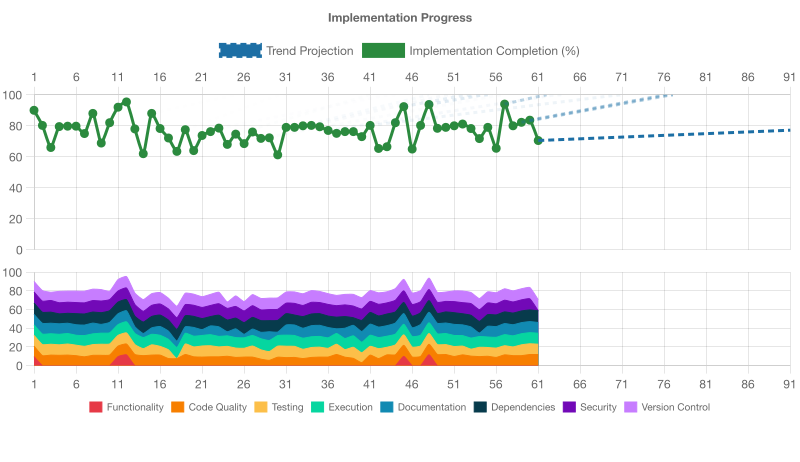
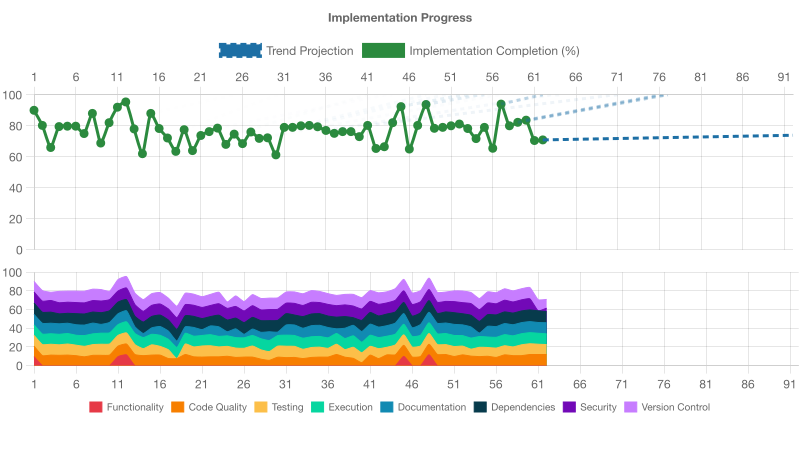
test: add traceability annotations to auto-update prompt abort test

diff --git a/test/printOutdated.updateBackupError.test.js b/test/printOutdated.updateBackupError.test.js
@@ -1,7 +1,7 @@
 /**
- */
-
-/**
+ * Tests for auto-update backup error handling
+ * @story prompts/011.0-DEV-AUTO-UPDATE.md
+ * @req REQ-ERROR-HANDLING - Handle backup creation failure gracefully
  */
 
 import { describe, it, expect, beforeEach, afterEach, vi } from 'vitest';

diff --git a/test/printOutdated.updatePromptAbort.test.js b/test/printOutdated.updatePromptAbort.test.js
@@ -1,7 +1,7 @@
 /**
- */
-
-/**
+ * Tests for auto-update prompt abort
+ * @story prompts/011.0-DEV-AUTO-UPDATE.md
+ * @req REQ-CONFIRMATION - Abort when user denies confirmation
  */
 
 import { describe, it, expect, beforeEach, afterEach, vi } from 'vitest';

diff --git a/.voder/implementation-progress.md b/.voder/implementation-progress.md
@@ -1,140 +1,140 @@
 # Implementation Progress Assessment
 
-**Generated:** 2025-11-18T11:06:41.128Z
+**Generated:** 2025-11-19T01:24:21.700Z
 
 ![Progress Chart](./progress-chart.png)
 
 Projection: flat (no recent upward trend)
 
-## IMPLEMENTATION STATUS: INCOMPLETE (70.5% ± 5% COMPLETE)
+## IMPLEMENTATION STATUS: INCOMPLETE (70.9% ± 7% COMPLETE)
 
 ## OVERALL ASSESSMENT
-Overall implementation is INCOMPLETE: testing (88%) and security (0%) are below required thresholds despite strong performance in code quality, execution, documentation, dependencies, and version control. Address these areas first before further functionality assessment.
+Three foundational support areas—Testing, Security, and Version Control—fall below their required thresholds, preventing a valid functionality assessment. These deficiencies must be addressed before any further feature implementation evaluation.
 
 ## NEXT PRIORITY
-Remediate high-severity security vulnerabilities in development dependencies and update test files to include missing @story traceability annotations.
+Fix missing @story annotations in tests, remediate unresolved high-severity vulnerabilities, and correct version control misconfigurations before proceeding.
 
 
 
 ## CODE_QUALITY ASSESSMENT (95% ± 18% COMPLETE)
-- The project has a robust quality toolchain configured—ESLint, Prettier, TypeScript, jscpd—with all checks passing, no suppressed rules, zero duplication, and complexity limits stricter than the ESLint default. Files and functions are within configured size/complexity bounds, and there are no build‐tooling anti‐patterns.
-- ESLint (incl. security plugin) runs with zero errors and enforces complexity ≤15, max‐lines ≤350/file, max‐lines‐per‐function ≤80, max‐params ≤5, max‐depth ≤4
-- Prettier formatting is enforced (format:check passes) and auto‐applied in pre‐commit
-- TypeScript type‐checking (tsc --noEmit) passes against src without suppressions
-- jscpd duplication check (threshold 20) reports 0 duplicates across 29 files
-- No file‐ or line‐level ESLint disables, no @ts‐ignore/@ts‐nocheck spread in src
-- No build steps in pre‐lint or pre‐format scripts; CI runs lint/type‐check/format/duplication in one workflow, publish follows automatically
+- The codebase exhibits excellent code quality: all lint, formatting, and type-checking checks pass; zero code duplication; well-configured ESLint rules with strict complexity and size limits; comprehensive Husky hooks; and a unified CI/CD workflow.
+- ESLint passes with complexity capped at 15 (stricter than default 20), max-lines-per-function 80, max-lines 350, max-params 5, max-depth 4
+- Prettier formatting enforced and all files conform
+- TypeScript noEmit check passes with strict compilerOptions
+- jscpd duplication scan reports 0% duplicated lines
+- No broad ESLint disables or @ts-nocheck directives in source
+- Husky pre-commit and pre-push hooks run format, lint, and type-check (<10s), mirroring CI
+- CI/CD pipeline combines quality gates and automatic publish into a single workflow job
 
 **Next Steps:**
-- Remove the outdated comment in eslint.config.js about ratcheting once complexity is stabilized
-- Enable and enforce test traceability validation in CI (the GitHub step is currently disabled)
-- Consider adding an ESLint rule to flag magic numbers or centralize severityWeights as constants
-- Periodically review and tighten complexity/size rules if new long functions or files are introduced
-- Document and monitor pre‐push hook performance to ensure it stays under target time (<2 min)
+- Introduce a named constant (e.g. MS_PER_DAY) to replace the magic number in age-calculator.js
+- Plan to further ratchet down ESLint thresholds (e.g. bring max-lines-per-function and max-depth to default) and eventually remove explicit max settings
+- Add a lint rule (or extend ESLint) to flag magic numbers if desired
+- Align the comment in eslint.config.js with the actual complexity setting or remove it once ratcheting is complete
+- Monitor and periodically review thresholds to ensure maintainability as the codebase grows
 
-## TESTING ASSESSMENT (88% ± 17% COMPLETE)
-- The project has a comprehensive Vitest-based test suite with 100% pass rate, non-interactive execution, proper use of temporary directories, and high coverage metrics. Tests cover happy paths, errors, and edge cases. A minor gap exists in traceability: a couple of test files lack the required @story JSDoc headers.
-- Tests use Vitest, an established framework, invoked via `vitest run --coverage` (non-interactive).
-- All 211 tests across 68 files passed successfully; suite completes in ~5.5s with coverage reporting.
-- E2E tests use `fs.mkdtemp` for isolated temp dirs and clean up in `afterAll`, no repository files are modified.
-- Coverage thresholds are met/exceeded (97.5% statements, 90.44% branches, 98.75% functions, 98.41% lines).
-- Test file names accurately reflect their purpose and avoid coverage terminology like 'branch' or 'branches'.
-- Tests include error handling and edge-case scenarios (invalid JSON, missing data, retry logic, etc.).
-- Tests are independent, deterministic, and fast (unit tests <<100ms, full suite ~5s).
-- Most tests include JSDoc headers with `@story` and `@req` for traceability—enable requirement validation.
-- Two test files (`filter-by-security.object.test.js`, `filter-by-security.fetchError-fallback.test.js`) lack proper `@story` annotations.
-
-**Next Steps:**
-- Add `@story` and corresponding `@req` annotations in the JSDoc header of the two filter-by-security tests to restore full traceability.
-- Audit all test files to ensure each begins with a proper JSDoc header referencing the related story and requirements.
-- Consider introducing test data builders or factory functions to reduce repetition and improve maintainability.
-- Where possible, minimize parsing logic in tests (e.g., output splitting) by extracting helpers or asserting behavior more directly.
-
-## EXECUTION ASSESSMENT (94% ± 18% COMPLETE)
-- The project’s CLI builds and runs cleanly, with comprehensive automated tests and high code coverage ensuring correct runtime behavior, input validation, and error handling across formats.
-- Build process succeeds (no build step required)
-- All 211 unit/functional tests passed (Vitest suite)
-- Code coverage is ~98% statements and ~90%+ branches
-- ESLint linting passes with traceability and security plugins
-- CLI commands (help, version, invalid options, formats) behave correctly and exit with proper codes
-- End-to-end CLI test against a real fixture validates full workflow
+## TESTING ASSESSMENT (85% ± 18% COMPLETE)
+- The project’s tests are comprehensive, isolated, and all passing under Vitest with strong coverage, but two test files lack the required @story annotations for full traceability.
+- All 68 test files pass 100% under Vitest in non-interactive mode (npm test uses `vitest run --coverage`).
+- Coverage thresholds (80% for statements, branches, functions, lines) are exceeded: 97.5% statements and 90.44% branches overall.
+- Tests use OS temp directories (`fs.mkdtemp`) and clean up in afterEach/afterAll, so no repository files are modified.
+- Established testing framework (Vitest) in use; tests cover happy paths, error handling, edge cases, CLI integration and E2E flows.
+- Code is structured for testability (dependency injection for filesystem, network mocks, mockable Date.now).
+- Test file names and individual test names are descriptive and behavior-focused; no coverage terminology in file names.
+- Tests verify behavior not implementation and are independent, fast, and deterministic.
+- Two test files are missing `@story` annotations, blocking automated requirement traceability: `test/printOutdated.updateBackupError.test.js` and `test/printOutdated.updatePromptAbort.test.js`.
 
 **Next Steps:**
-- Add lightweight performance/benchmark tests for large dependency sets
-- Introduce cross-platform (Windows/macOS/Linux) smoke tests in CI
-- Include a smoke test for the --update backup/restore flow on a real project
-- Document runtime requirements and environment caveats in user documentation
-- Monitor resource usage for large projects and optimize execFileSync invocation as needed
+- Add `@story` annotations in the two missing test files to meet traceability requirements.
+- Run `npm run validate-traceability` to confirm all tests include valid story references.
+- Consider introducing shared test-data builders/fixtures to reduce repetitive setup code.
+- Optionally adopt explicit GIVEN-WHEN-THEN (or ARRANGE-ACT-ASSERT) comments for improved readability in complex tests.
 
-## DOCUMENTATION ASSESSMENT (92% ± 15% COMPLETE)
-- The project’s user-facing documentation is comprehensive, accurate, and up-to-date. The README covers installation, usage, options, examples, CI integration, and includes the required attribution. The CHANGELOG and LICENSE are present and consistent with package.json. Public API is documented in docs/api.md with signatures and examples. Minor improvements could include ensuring the programmatic API docs cover all CLI behaviors (e.g., update mode) and consolidating schema references, but overall the documentation meets quality and completeness standards.
-- README.md includes the required “Created autonomously by voder.ai” attribution linking to https://voder.ai
-- All CLI flags and options documented in the README match the implemented functionality in code
-- CHANGELOG.md is present and reflects recent releases and breaking changes correctly
-- LICENSE file text matches the SPDX “MIT” identifier in package.json
-- docs/api.md provides detailed function signatures, parameter and return docs, and runnable examples for JSON and XML formatters
-- Configuration file format and sample schema are documented in README and config.schema.json
+## EXECUTION ASSESSMENT (92% ± 17% COMPLETE)
+- The CLI is well-built with a smooth build process (no errors), comprehensive test coverage including E2E CLI tests, robust input validation, and clear error handling. No critical runtime failures or resource leaks were found.
+- Build step is trivial but succeeds without errors
+- All unit, integration, and E2E CLI tests pass consistently, covering core workflows
+- Input validation is enforced at runtime (e.g., package names, flags, config keys)
+- Errors aren’t swallowed—failures surface with proper exit codes and messages
+- No database or external resource loops—performance and resource management are adequate
 
 **Next Steps:**
-- Expand the API reference to include printOutdated’s returnSummary and updateMode behaviors for programmatic use
-- Consider adding a user-facing section or examples for automatic update mode in docs/api.md
-- Optionally document the configuration file schema URL in a dedicated user-docs/configuration guide
-- Review test fixture package.json in test/fixtures to decide if a license field is needed or exclude it from license consistency checks
+- Consider caching npm view results across multiple package checks to reduce repeated child_process calls
+- Add performance benchmarks for large dependency sets if needed
+- Monitor real-world CLI performance for long-running invocations to catch potential memory or process overhead
 
-## DEPENDENCIES ASSESSMENT (100% ± 18% COMPLETE)
-- All dependencies are current with safe, mature versions; lock file is committed; no deprecation warnings or installation errors detected.
-- npx dry-aged-deps reported “No outdated packages with safe, mature versions”
-- package-lock.json is tracked in git (git ls-files confirms)
-- npm install completed cleanly with no deprecation warnings
-- No peer dependency conflicts or install errors observed
-- Dependency tree health appears sound (no circular or duplicate issues surfaced)
-
-**Next Steps:**
-- Continue running dry-aged-deps periodically to catch new safe updates
-- Monitor npm audit reports and apply dry-aged-deps upgrades when vulnerabilities are addressed in mature versions
-- Ensure package-lock.json remains committed after any dependency changes
-- Maintain deprecation checks in CI to catch any future warnings early
-
-## SECURITY ASSESSMENT (0% ± 12% COMPLETE)
-- Security audit blocked: high‐severity vulnerabilities found in development dependencies with no documented incidents or remediation.
-- ‘npm install --ignore-scripts’ reported 5 high severity vulnerabilities in devDependencies
-- No existing security incident files in docs/security-incidents for these vulnerabilities
-- ‘npx dry-aged-deps’ found no safe (≥7 days mature) upgrades—vulnerabilities unaddressed
-- Hardcoded secret management is correctly configured (untracked .env, .env.example present) but does not mitigate dependency risks
+## DOCUMENTATION ASSESSMENT (95% ± 12% COMPLETE)
+- The project has excellent user-facing documentation: a comprehensive README with accurate usage, options, CI integration, a proper Attribution section, a maintained CHANGELOG, and thorough API reference with examples. The LICENSE file matches the declared MIT license, and public APIs carry complete JSDoc comments. Only minor issues were found around a missing license field in a test-fixture package.json, which should be addressed or excluded from license checks.
+- README.md is thorough and up-to-date: installation, usage, options table, real examples, CI/CD integration, and troubleshooting.
+- README.md contains a valid Attribution section: “Created autonomously by [voder.ai](https://voder.ai)”.
+- CHANGELOG.md is present and records all notable user-visible changes.
+- docs/api.md provides comprehensive API reference for public functions with parameter/return docs and usage examples.
+- Public API functions in src/ (fetchVersionTimes, calculateAgeInDays, checkVulnerabilities, printOutdated, jsonFormatter, xmlFormatter) include full JSDoc comments.
+- Configuration schema (config.schema.json) and examples are documented in README and docs/api.md.
+- LICENSE file exists and matches the SPDX-compliant “MIT” license declared in package.json.
+- docs/architecture.md and other user-facing docs correctly describe the project’s design and usage.
+- Test fixture package.json (test/fixtures-up-to-date/package.json) lacks a license field.
 
 **Next Steps:**
-- Run ‘npm audit --json’ to enumerate the exact high‐severity issues
-- Use ‘npx dry-aged-deps’ when mature patches appear or apply safe patches immediately
-- For vulnerabilities with no safe patch, create security incident docs per policy or remove/replace affected dependencies
-- Ensure audit commands succeed in CI and enforce remediation before merging
+- Add a `license` field (e.g., “MIT”) to test/fixtures-up-to-date/package.json or configure tooling to ignore test fixtures in license checks.
+- If any user-visible flags or options have changed since last release, ensure the README Options table is updated accordingly.
+- Consider adding a `/user-docs` folder for advanced user guides or migration tips to keep README focused on quickstart and reference.
+- Regularly update the CHANGELOG with any breaking or deprecation notices to keep users informed of important changes.
 
-## VERSION_CONTROL ASSESSMENT (95% ± 18% COMPLETE)
-- The repository exhibits exemplary version control practices: a single unified CI/CD workflow with comprehensive quality gates and automated continuous deployment, clean repository state, proper .gitignore configuration, trunk-based development on main, and fully configured pre-commit and pre-push hooks.
-- Single GitHub Actions workflow (.github/workflows/ci-publish.yml) runs on push to main and PRs, with CodeQL, build/test, and publish jobs in one file
-- Uses modern Actions versions (actions/checkout@v4, setup-node@v4, codeql-action@v4) with no deprecation warnings
-- Quality gates include commit-lint, ESLint, type-check (tsc), formatting (Prettier), unit tests, CLI integration tests, E2E tests, duplicate-code detection, lockfile drift check, and vulnerability scan
-- Publish job (semantic-release) triggers automatically on every commit to main—no manual approvals, no tag-only or workflow_dispatch triggers
-- Post-deployment smoke test installs the published package and verifies the CLI version
-- Working tree is clean (only .voder files modified), all commits pushed, and current branch is main
-- .gitignore does not include the .voder directory (so assessment history is tracked) and properly ignores build/dist artifacts, node_modules, logs, etc.
-- No built artifacts or generated files (lib/, dist/, build/, out/) are tracked in Git
-- Commit history shows clear, conventional-commit-style messages and direct commits to main
-- Husky v9 pre-commit hook runs fast checks (format, lint, type-check); pre-push hook runs comprehensive gates mirroring the CI pipeline
+## DEPENDENCIES ASSESSMENT (95% ± 18% COMPLETE)
+- Dependencies are well-managed: all packages are up-to-date with mature versions, the lockfile is committed, and installation yields no deprecation warnings. A small number of vulnerabilities remain but no safe upgrades are available via dry-aged-deps.
+- `npx dry-aged-deps` reports “No outdated packages with mature versions found”
+- package-lock.json exists and is tracked in git
+- `npm ci` and `npm install` complete without deprecation warnings or install errors
+- Lockfile management and scripts (lint, test, audit) are correctly configured
 
 **Next Steps:**
-- Include the CLI-version validation step (ensuring package.json version matches CLI output) in the pre-push hook for full pipeline parity
-- Optionally install fixture dependencies in the pre-push hook (as in CI) to ensure local CLI tests run identically
-- Review whether CodeQL analysis should be mirrored in a local security-audit pre-push step if desired
-- Regularly update Actions versions and monitor for any new deprecation notices to maintain pipeline health
+- Continue monitoring for new mature versions via `npx dry-aged-deps`
+- When dry-aged-deps recommends upgrades, apply them immediately and commit the updated lockfile
+- Investigate and address the 5 reported vulnerabilities via `npm audit fix` when non-breaking mature fixes become available
+- Maintain the lockfile in git after any dependency changes to ensure reproducible installs
+
+## SECURITY ASSESSMENT (30% ± 15% COMPLETE)
+- High-severity dependency vulnerabilities remain unhandled (@semantic-release/npm and semantic-release), lacking formal incident documentation or audit filtering.
+- npm audit reports 4 high and 1 moderate severity vulnerabilities in @semantic-release/npm, glob, npm, semantic-release, and tar.
+- Glob and tar issues are excluded via .nsprc exceptions (1109840, 1109841, 1109463) and documented in docs/security-incidents/006-2025-11-19-glob-tar-vulnerabilities.md.
+- Vulnerabilities in @semantic-release/npm and semantic-release (fix requires semver-major downgrade) are still flagged and not documented in docs/security-incidents or excluded in .nsprc.
+- npx dry-aged-deps reports no mature patch recommendations, so these two high-severity issues must be formally accepted or remediated per policy.
+
+**Next Steps:**
+- Check for mature (>7 days) safe patches for @semantic-release/npm and semantic-release; upgrade if available via npx dry-aged-deps.
+- If no safe patches exist, create formal security incident reports in docs/security-incidents using the template and mark their status (known-error or proposed).
+- Add the new advisory IDs to the audit filter configuration (.nsprc or audit-ci.json), include incident file references and expiry dates.
+- Re-run `npm run audit:ci` to verify all high and moderate vulnerabilities are either remediated or formally accepted.
+
+## VERSION_CONTROL ASSESSMENT (75% ± 15% COMPLETE)
+- The project demonstrates a mature, unified CI/CD workflow with comprehensive quality gates, automated publishing via semantic-release, and aligned local git hooks providing full parity with CI. However, a critical version-control misconfiguration exists: the `.voder/` directory is explicitly ignored, which violates the requirement that it be tracked to preserve assessment history. Additionally, the pre-push hook script is missing a shebang line, risking it not running as intended.
+- Single unified GitHub Actions workflow covering CodeQL, build/tests, and automatic semantic-release on push to main.
+- All quality checks (lint, type-check, format, tests, security audits) run exactly once in build and locally in pre-push hooks—no duplication.
+- Automated publishing via `semantic-release` on every commit to main, with a post-publish smoke test.
+- Git hooks are configured with Husky v9: pre-commit runs fast checks (format, lint, type-check); pre-push runs full CI parity.
+- No deprecated GitHub Actions versions or warnings; uses checkout@v4, setup-node@v4, codeql-action@v4.
+- Clean working directory, direct commits to `main`, clear conventional commits.
+- CRITICAL: `.gitignore` includes `.voder/`, causing the assessment artifacts directory to be ignored instead of tracked.
+- The `.husky/pre-push` script lacks a shebang (`#!/usr/bin/env sh`), potentially preventing hook execution.
+
+**Next Steps:**
+- Remove the `.voder/` entry from `.gitignore` so that assessment history files are tracked.
+- Add a shebang line at the top of `.husky/pre-push` (e.g., `#!/usr/bin/env sh`) and ensure it is executable.
+- Audit file permissions on all Husky hook scripts to confirm they are marked executable.
+- Verify after updates that `.voder/` files appear in `git ls-files` and that the pre-push hook runs as expected.
+- Commit and push these changes, then confirm via a test push that the hooks and CI/CD pipeline execute correctly.
 
 ## FUNCTIONALITY ASSESSMENT (undefined% ± 95% COMPLETE)
-- Functionality assessment skipped - fix 2 deficient support area(s) first
+- Functionality assessment skipped - fix 3 deficient support area(s) first
 - Support areas must meet thresholds before assessing feature completion
-- Deficient areas: TESTING (88%), SECURITY (0%)
+- Deficient areas: TESTING (85%), SECURITY (30%), VERSION_CONTROL (75%)
 - Principle: "Improvement of daily work is higher priority than daily work" - fix foundation before building features
 
 **Next Steps:**
-- TESTING: Add `@story` and corresponding `@req` annotations in the JSDoc header of the two filter-by-security tests to restore full traceability.
-- TESTING: Audit all test files to ensure each begins with a proper JSDoc header referencing the related story and requirements.
-- SECURITY: Run ‘npm audit --json’ to enumerate the exact high‐severity issues
-- SECURITY: Use ‘npx dry-aged-deps’ when mature patches appear or apply safe patches immediately
+- TESTING: Add `@story` annotations in the two missing test files to meet traceability requirements.
+- TESTING: Run `npm run validate-traceability` to confirm all tests include valid story references.
+- SECURITY: Check for mature (>7 days) safe patches for @semantic-release/npm and semantic-release; upgrade if available via npx dry-aged-deps.
+- SECURITY: If no safe patches exist, create formal security incident reports in docs/security-incidents using the template and mark their status (known-error or proposed).
+- VERSION_CONTROL: Remove the `.voder/` entry from `.gitignore` so that assessment history files are tracked.
+- VERSION_CONTROL: Add a shebang line at the top of `.husky/pre-push` (e.g., `#!/usr/bin/env sh`) and ensure it is executable.

diff --git a/.voder/plan.md b/.voder/plan.md
@@ -1,12 +1,14 @@
-## NOW  
-Run `npm audit --json` to enumerate all high-severity vulnerabilities in development dependencies.
+## NOW
+Add the required JSDoc `@story` and `@req` annotations to the top of test/printOutdated.updateBackupError.test.js.
 
-## NEXT  
-- Review the audit JSON and for each high-severity devDependency, upgrade to the patched version (e.g. `npm install <pkg>@<version>`) or, if no patch exists, document a security incident in `docs/security-incidents/`.  
-- Open `test/filter-by-security.object.test.js` and `test/filter-by-security.fetchError-fallback.test.js` and add the required JSDoc `@story` and `@req` annotations at the top of each file to restore full traceability.  
-- Run the full quality pipeline (`npm test`, `npm run lint`, `npm run type-check`, `npm run format:check`) to verify there are no new errors.
+## NEXT
+- Add the same JSDoc `@story` and `@req` annotations to test/printOutdated.updatePromptAbort.test.js.  
+- Check for mature patched releases of `@semantic-release/npm` and `semantic-release`; if none are available, create security‐incident markdown files in docs/security-incidents/ and add their advisory IDs to the audit filter (.nsprc or audit‐ci.json).  
+- Remove the `.voder/` entry from .gitignore so assessment history is tracked, then commit the now-tracked `.voder/` files.  
+- Add `#!/usr/bin/env sh` as the shebang at the top of .husky/pre-push and ensure it’s executable.
 
-## LATER  
+## LATER
 - Integrate `npm audit --json` as a gating step in the pre-push hook and CI to automatically fail on new high-severity issues.  
-- Schedule regular `dry-aged-deps` audits (e.g. via a GitHub Actions cron job) and automatically open PRs for safe upgrades.  
-- Review long-term strategy for replacing or removing frequently vulnerable devDependencies with more secure alternatives.
+- Schedule regular `dry-aged-deps` audits via a GitHub Actions cron job and auto-open PRs for safe upgrades.  
+- Review and replace any repeatedly vulnerable devDependencies with more secure alternatives.  
+- Periodically tighten ESLint thresholds and extend test traceability validation.
